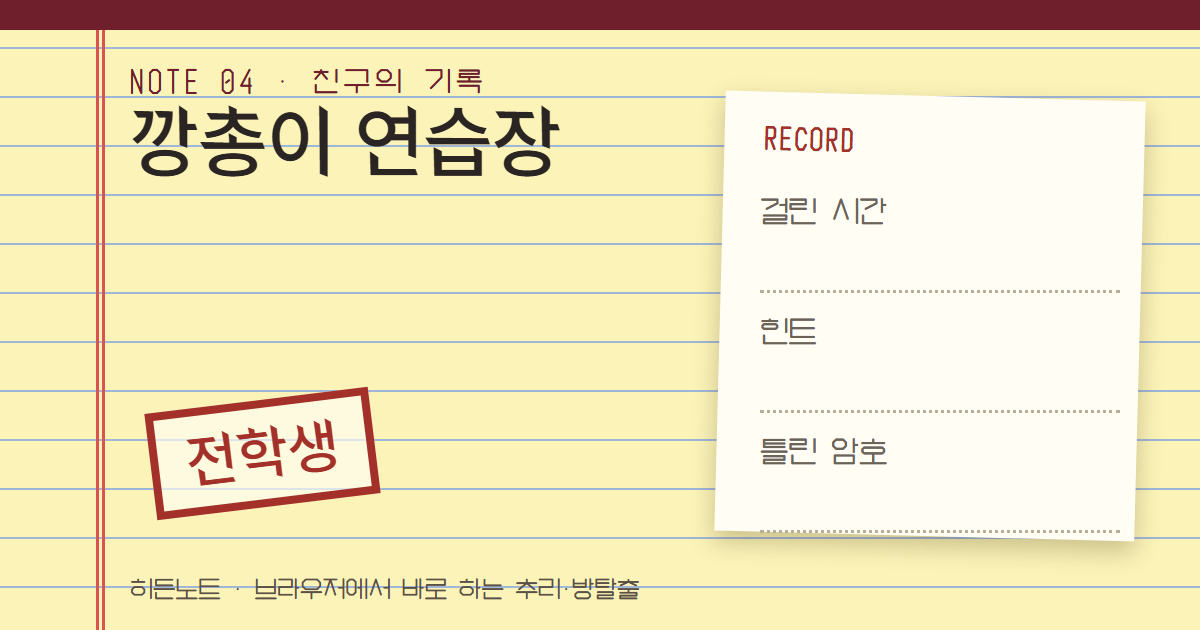
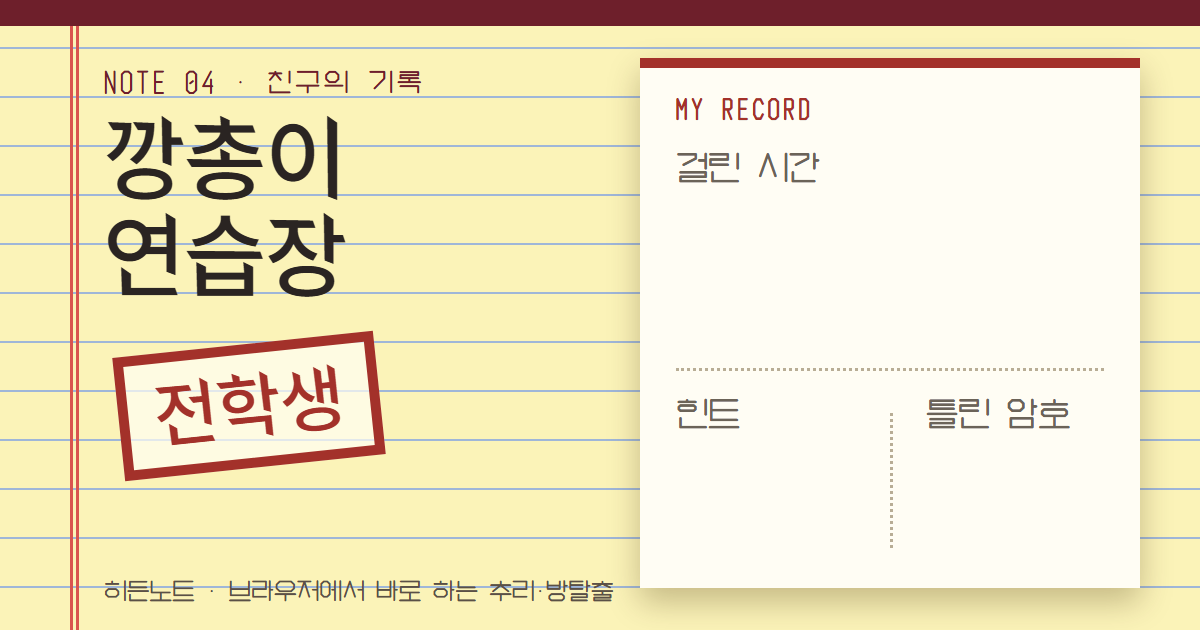
Make the shared record image easier to read
Big time on a record card, hints and wrong codes below, stamp right under the title.

Claude-Session: https://claude.ai/code/session_014xZr56KSBxKkeAwG41ZnWC

Changed region(s): [[0.0, 0.0302, 1.0, 1.0], [0.7708, 0.6333, 0.8942, 0.6937]]

diff --git a/og/rec.html b/og/rec.html
@@ -1,22 +1,25 @@
 <!DOCTYPE html><html><head><meta charset="utf-8"><link rel="stylesheet" href="../fonts/fonts.css">
 <link rel="stylesheet" href="https://cdn.jsdelivr.net/gh/hada0127/hada-type-levelup@v2026.10.21/css/levelup-subset.css">
-<!-- 기록 공유 미리보기 바탕 (api/og.js가 값 칸에 숫자를 찍는다). 값 칸 위치를 바꾸면 api/og.js BOX도 같이 -->
+<!-- 기록 공유 미리보기 바탕. api/og.js가 기록 카드 빈칸에 숫자를 찍는다. 칸 위치를 바꾸면 api/og.js SLOT도 같이 -->
 <style>
 html,body{margin:0;width:1200px;height:630px;overflow:hidden}
 .c{position:relative;width:1200px;height:630px;background:repeating-linear-gradient(#fbf3b8 0 47px,#9fb6d8 47px 49px);background-color:#fbf3b8;font-family:'Kkakdugi Drafting',monospace;color:#2a2422}
-.c:before{content:"";position:absolute;left:96px;top:0;bottom:0;width:3px;background:#d9534f;box-shadow:6px 0 0 #d9534f}
-.c:after{content:"";position:absolute;left:0;right:0;top:0;height:30px;background:#6e1f2b}
-.k{position:absolute;left:130px;top:62px;font-size:28px;letter-spacing:5px;color:#6e1f2b}
-h1{position:absolute;left:130px;top:100px;margin:0;font-family:LevelUp,serif;font-weight:400;font-size:var(--hs,78px);line-height:1.1;width:560px}
-.s{position:absolute;left:150px;top:400px;border:8px solid #a3312a;color:#a3312a;font-family:LevelUp,serif;font-size:var(--ss,58px);padding:10px 28px;transform:rotate(-7deg);background:rgba(255,253,244,.65);white-space:nowrap}
-.f{position:absolute;left:130px;bottom:24px;font-size:24px;color:#5a5046}
-.p{position:absolute;left:720px;top:96px;width:420px;height:440px;background:#fffdf4;box-shadow:0 10px 24px rgba(60,40,0,.25);transform:rotate(1.5deg)}
-.r{position:absolute;left:760px;width:360px;height:110px;border-bottom:3px dotted #b8ad95}
-.r b{position:absolute;left:0;top:10px;font-size:30px;font-weight:400;color:#6b6358}
-.p h2{position:absolute;left:40px;top:28px;margin:0;font-size:26px;letter-spacing:3px;color:#a3312a}
-</style></head><body><div class="c"><div class="k" id="k"></div><h1 id="h"></h1><div class="s" id="s"></div>
-<div class="p"><h2>RECORD</h2></div>
-<div class="r" style="top:180px"><b>걸린 시간</b></div><div class="r" style="top:300px"><b>힌트</b></div><div class="r" style="top:420px"><b>틀린 암호</b></div>
+.c:before{content:"";position:absolute;left:70px;top:0;bottom:0;width:3px;background:#d9534f;box-shadow:6px 0 0 #d9534f}
+.c:after{content:"";position:absolute;left:0;right:0;top:0;height:26px;background:#6e1f2b}
+.l{position:absolute;left:104px;top:64px;width:500px;display:flex;flex-direction:column;align-items:flex-start}
+.k{font-size:26px;letter-spacing:4px;color:#6e1f2b}
+h1{margin:10px 0 0;word-break:keep-all;font-family:LevelUp,serif;font-weight:400;font-size:var(--hs,92px);line-height:1.05}
+.s{margin:40px 0 0 14px;border:10px solid #a3312a;color:#a3312a;font-family:LevelUp,serif;font-size:var(--ss,62px);padding:8px 26px;transform:rotate(-6deg);background:rgba(255,253,244,.7);white-space:nowrap}
+.f{position:absolute;left:104px;bottom:22px;font-size:24px;color:#5a5046}
+.p{position:absolute;left:640px;top:58px;width:500px;height:520px;background:#fffdf4;box-shadow:0 14px 30px rgba(60,40,0,.28);border-top:10px solid #a3312a}
+.p h2{position:absolute;left:36px;top:24px;margin:0;font-size:24px;letter-spacing:4px;color:#a3312a;font-weight:700}
+.p .lb{position:absolute;font-size:34px;color:#6b6358}
+.p hr{position:absolute;left:36px;right:36px;margin:0;border:0;border-top:3px dotted #b8ad95}
+.p .v{position:absolute;left:250px;top:345px;bottom:40px;border-left:3px dotted #b8ad95}
+</style></head><body><div class="c">
+<div class="l"><div class="k" id="k"></div><h1 id="h"></h1><div class="s" id="s"></div></div>
+<div class="p"><h2>MY RECORD</h2><div class="lb" style="left:36px;top:76px">걸린 시간</div><hr style="top:300px"><div class="lb" style="left:36px;top:322px">힌트</div><div class="lb" style="left:286px;top:322px" id="wl">틀린 암호</div><div class="v"></div></div>
 <div class="f">히든노트 · 브라우저에서 바로 하는 추리·방탈출</div></div>
 <script>const q=new URLSearchParams(location.search);k.textContent=q.get('k');h.textContent=q.get('h');s.textContent=q.get('s');
-if(q.get('h').length>9)document.documentElement.style.setProperty('--hs','62px');if(q.get('s').length>7)document.documentElement.style.setProperty('--ss','44px')</script></body></html>
+const hl=[...q.get('h')].length,sl=[...q.get('s')].length;
+document.documentElement.style.setProperty('--hs',hl>7?'72px':'92px');document.documentElement.style.setProperty('--ss',sl>7?'50px':sl>5?'60px':'72px')</script></body></html>

diff --git a/api/_png.js b/api/_png.js
@@ -36,19 +36,29 @@ function build(w,h,zdata){
   let n=0;parts.forEach(p=>n+=p.length);const out=new Uint8Array(n);n=0;parts.forEach(p=>{out.set(p,n);n+=p.length});return out;
 }
 
-// 글자판: 칸 80×100, 칸마다 잉크가 있는 가로 범위를 찾아 둔다
-const GLYPHS='0123456789:-개번',CW=80,CH=100;
-function glyphBounds(g){const b={};[...GLYPHS].forEach((ch,i)=>{let l=CW,r=-1;
-  for(let x=0;x<CW;x++)for(let y=0;y<CH;y++){const p=(y*g.w+i*CW+x)*3;if(g.px[p]+g.px[p+1]+g.px[p+2]<600){if(x<l)l=x;if(x>r)r=x;break}}
+// 글자판: 칸 110×200, 줄(row) 0 = 큰 글자, 1 = 중간 글자. 칸마다 잉크가 있는 가로 범위를 찾아 둔다
+const GLYPHS='0123456789:-개번',CW=110,CH=200;
+function glyphBounds(g,row=0){const b={};[...GLYPHS].forEach((ch,i)=>{let l=CW,r=-1;
+  for(let x=0;x<CW;x++)for(let y=0;y<CH;y++){const p=((row*CH+y)*g.w+i*CW+x)*3;if(g.px[p]+g.px[p+1]+g.px[p+2]<600){if(x<l)l=x;if(x>r)r=x;break}}
   b[ch]=r<0?{l:0,r:CW/4}:{l,r}});return b}
 // 바탕 위 (오른쪽 끝 rx, 위 ty)에 글자를 오른쪽 맞춤으로 찍는다
-function stamp(base,g,bounds,text,rx,ty,gap=4){
+function width(bounds,text,gap=6){let w=0;[...text].forEach(c=>{if(bounds[c])w+=bounds[c].r-bounds[c].l+1+gap});return w-gap}
+function stamp(base,g,bounds,text,rx,ty,row=0,gap=6){
   const cs=[...text].filter(c=>bounds[c]);let wsum=0;cs.forEach(c=>wsum+=bounds[c].r-bounds[c].l+1+gap);
   let x=rx-wsum;
   for(const c of cs){const {l,r}=bounds[c],gi=GLYPHS.indexOf(c);
-    for(let yy=0;yy<CH;yy++)for(let xx=l;xx<=r;xx++){const s=(yy*g.w+gi*CW+xx)*3,dx=x+xx-l,dy=ty+yy;if(dx<0||dy<0||dx>=base.w||dy>=base.h)continue;
+    for(let yy=0;yy<CH;yy++)for(let xx=l;xx<=r;xx++){const s=((row*CH+yy)*g.w+gi*CW+xx)*3,dx=x+xx-l,dy=ty+yy;if(dx<0||dy<0||dx>=base.w||dy>=base.h)continue;
       const d=(dy*base.w+dx)*3,k=(g.px[s]+g.px[s+1]+g.px[s+2])/765; // 밝을수록 바탕 그대로
       for(let j=0;j<3;j++)base.px[d+j]=Math.round(base.px[d+j]*k+g.px[s+j]*(1-k))}
     x+=r-l+1+gap}
 }
-module.exports={parse,unfilter,toRaw,build,glyphBounds,stamp,GLYPHS};
+// 기록 카드에 숫자 찍기 (og/rec.html 카드 위치와 맞춘다). api/og.js와 브라우저 시험에서 같이 쓴다
+function drawRecord(P,base,gl,bd,t,h,w){
+  const clock=s=>s>=3600?`${Math.floor(s/3600)}:${String(Math.floor(s/60)%60).padStart(2,'0')}:${String(s%60).padStart(2,'0')}`:`${Math.floor(s/60)}:${String(s%60).padStart(2,'0')}`;
+  const tv=t>=0?clock(t):'-',big=P.width(bd[0],tv)<=420; // 큰 글자가 카드에 안 들어가면 중간 글자
+  P.stamp(base,gl,bd[big?0:1],tv,1104,big?152:160,big?0:1);
+  P.stamp(base,gl,bd[1],h>=0?h+'개':'-',864,382,1);
+  if(w>=0)P.stamp(base,gl,bd[1],w+'번',1104,382,1);
+  else for(let y=372;y<566;y++)for(let x=884;x<1136;x++){const d=(y*base.w+x)*3;base.px[d]=255;base.px[d+1]=253;base.px[d+2]=244} // 틀린 암호를 안 세는 노트: 그 칸을 비운다
+}
+module.exports={parse,unfilter,toRaw,build,glyphBounds,width,stamp,drawRecord,GLYPHS};

diff --git a/api/og.js b/api/og.js
@@ -2,7 +2,6 @@
 // /api/og?n=02&g=0&t=132&h=0&w=0   (의존성 없음: Node 내장 zlib + api/_png.js)
 const fs=require('fs'),path=require('path'),zlib=require('zlib'),P=require('./_png.js');
 const DIR=path.join(process.cwd(),'og','rec');
-const ROWS=[180,300,420],RX=1112,DY=-6; // og/rec.html의 .r 줄 위치와 맞춘다
 const cache={};
 function load(file){if(cache[file])return cache[file];const b=fs.readFileSync(path.join(DIR,file)),p=P.parse(b),raw=zlib.inflateSync(Buffer.from(p.idat));return cache[file]={w:p.w,h:p.h,px:P.unfilter(raw,p.w,p.h,p.bpp)}}
 const int=v=>/^\d{1,6}$/.test(v||'')?+v:-1;
@@ -11,12 +10,9 @@ module.exports=(req,res)=>{
     const q=new URL(req.url,'https://x').searchParams;
     const n=/^0[1-9]$/.test(q.get('n')||'')?q.get('n'):'',g=/^[0-3]$/.test(q.get('g')||'')?q.get('g'):'0';
     let file=`note${n}-${g}.png`;if(!n||!fs.existsSync(path.join(DIR,file)))file=`note${n||'02'}-0.png`;
-    const b=load(file),base={w:b.w,h:b.h,px:new Uint8Array(b.px)},gl=load('glyphs.png'),bd=gl.bd||(gl.bd=P.glyphBounds(gl));
+    const b=load(file),base={w:b.w,h:b.h,px:new Uint8Array(b.px)},gl=load('glyphs.png'),bd=gl.bd||(gl.bd=[P.glyphBounds(gl,0),P.glyphBounds(gl,1)]);
     const t=int(q.get('t')),h=int(q.get('h')),w=int(q.get('w'));
-    const clock=s=>s>=3600?`${Math.floor(s/3600)}:${String(Math.floor(s/60)%60).padStart(2,'0')}:${String(s%60).padStart(2,'0')}`:`${Math.floor(s/60)}:${String(s%60).padStart(2,'0')}`;
-    const vals=[t>=0?clock(t):'-',h>=0?h+'개':'-',w>=0?w+'번':''];
-    if(w<0)for(let y=414;y<526;y++)for(let x=752;x<1126;x++){const d=(y*base.w+x)*3;base.px[d]=255;base.px[d+1]=253;base.px[d+2]=244} // 틀린 암호를 안 세는 노트는 셋째 줄을 지운다
-    vals.forEach((v,i)=>v&&P.stamp(base,gl,bd,v,RX,ROWS[i]+DY));
+    P.drawRecord(P,base,gl,bd,t,h,w);
     const png=P.build(base.w,base.h,zlib.deflateSync(Buffer.from(P.toRaw(base.px,base.w,base.h)),{level:6}));
     res.statusCode=200;res.setHeader('Content-Type','image/png');res.setHeader('Cache-Control','public, max-age=31536000, immutable');res.end(Buffer.from(png));
   }catch(e){res.statusCode=302;res.setHeader('Location','/og/main.png');res.end()}

diff --git a/og/glyphs.html b/og/glyphs.html
@@ -1,5 +1,6 @@
 <!DOCTYPE html><html><head><meta charset="utf-8"><link rel="stylesheet" href="../fonts/fonts.css">
-<!-- api/og.js 숫자 글자판: 칸 하나 80×100, 순서 = GLYPHS. 바탕색은 rec.html 값 칸(#fffdf4) -->
-<style>html,body{margin:0;width:1200px;height:100px;overflow:hidden;background:#fffdf4}
-.g{display:flex}.g span{width:80px;height:100px;display:flex;align-items:center;justify-content:center;font-family:'Kkakdugi Drafting',monospace;font-weight:700;font-size:70px;color:#2a2422}</style>
-</head><body><div class="g" id="g"></div><script>g.innerHTML=[...'0123456789:-개번'].map(c=>`<span>${c}</span>`).join('')</script></body></html>
+<!-- api/og.js 숫자 글자판 두 줄: 위 큰 글자(칸 110×200), 아래 중간 글자(칸 110×200, 글자만 작게). 순서 = GLYPHS. 바탕색 = rec.html 카드(#fffdf4) -->
+<style>html,body{margin:0;width:1760px;height:400px;overflow:hidden;background:#fffdf4}
+.g{display:flex}.g span{width:110px;height:200px;display:flex;align-items:center;justify-content:center;font-family:'Kkakdugi Drafting',monospace;font-weight:700;color:#1f1a17}
+.big span{font-size:140px}.mid span{font-size:92px}</style>
+</head><body><div class="g big" id="a"></div><div class="g mid" id="b"></div><script>const t=[...'0123456789:-개번'].map(c=>`<span>${c}</span>`).join('');a.innerHTML=t;b.innerHTML=t</script></body></html>
